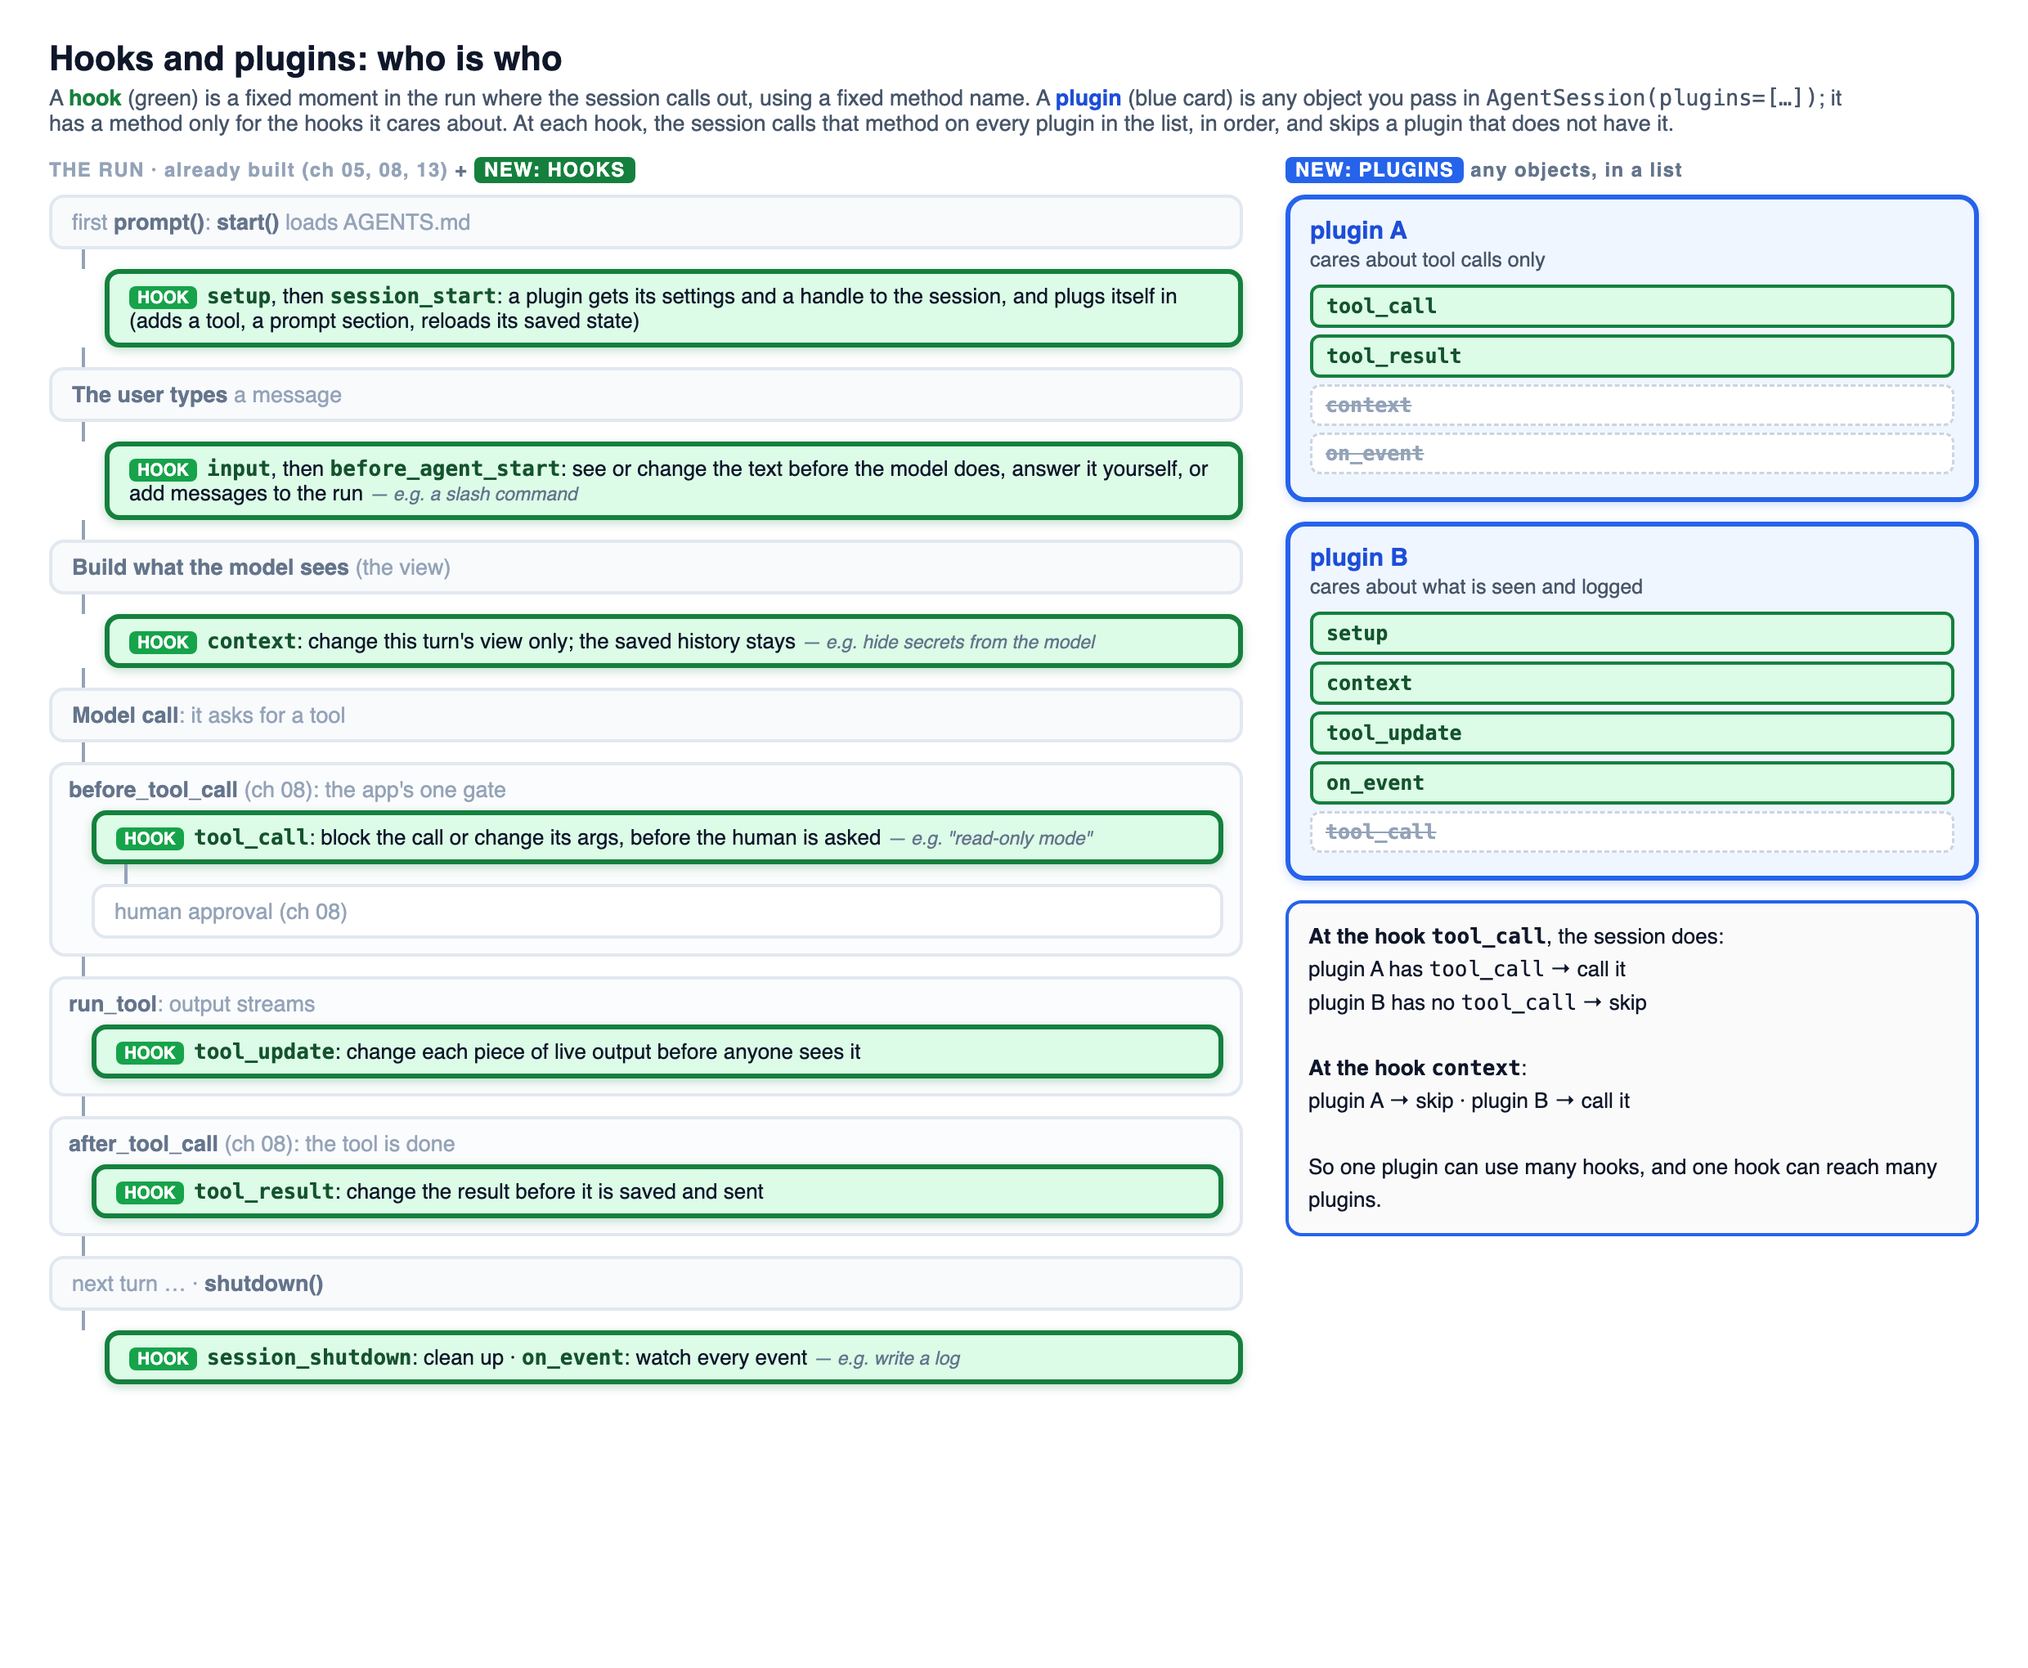
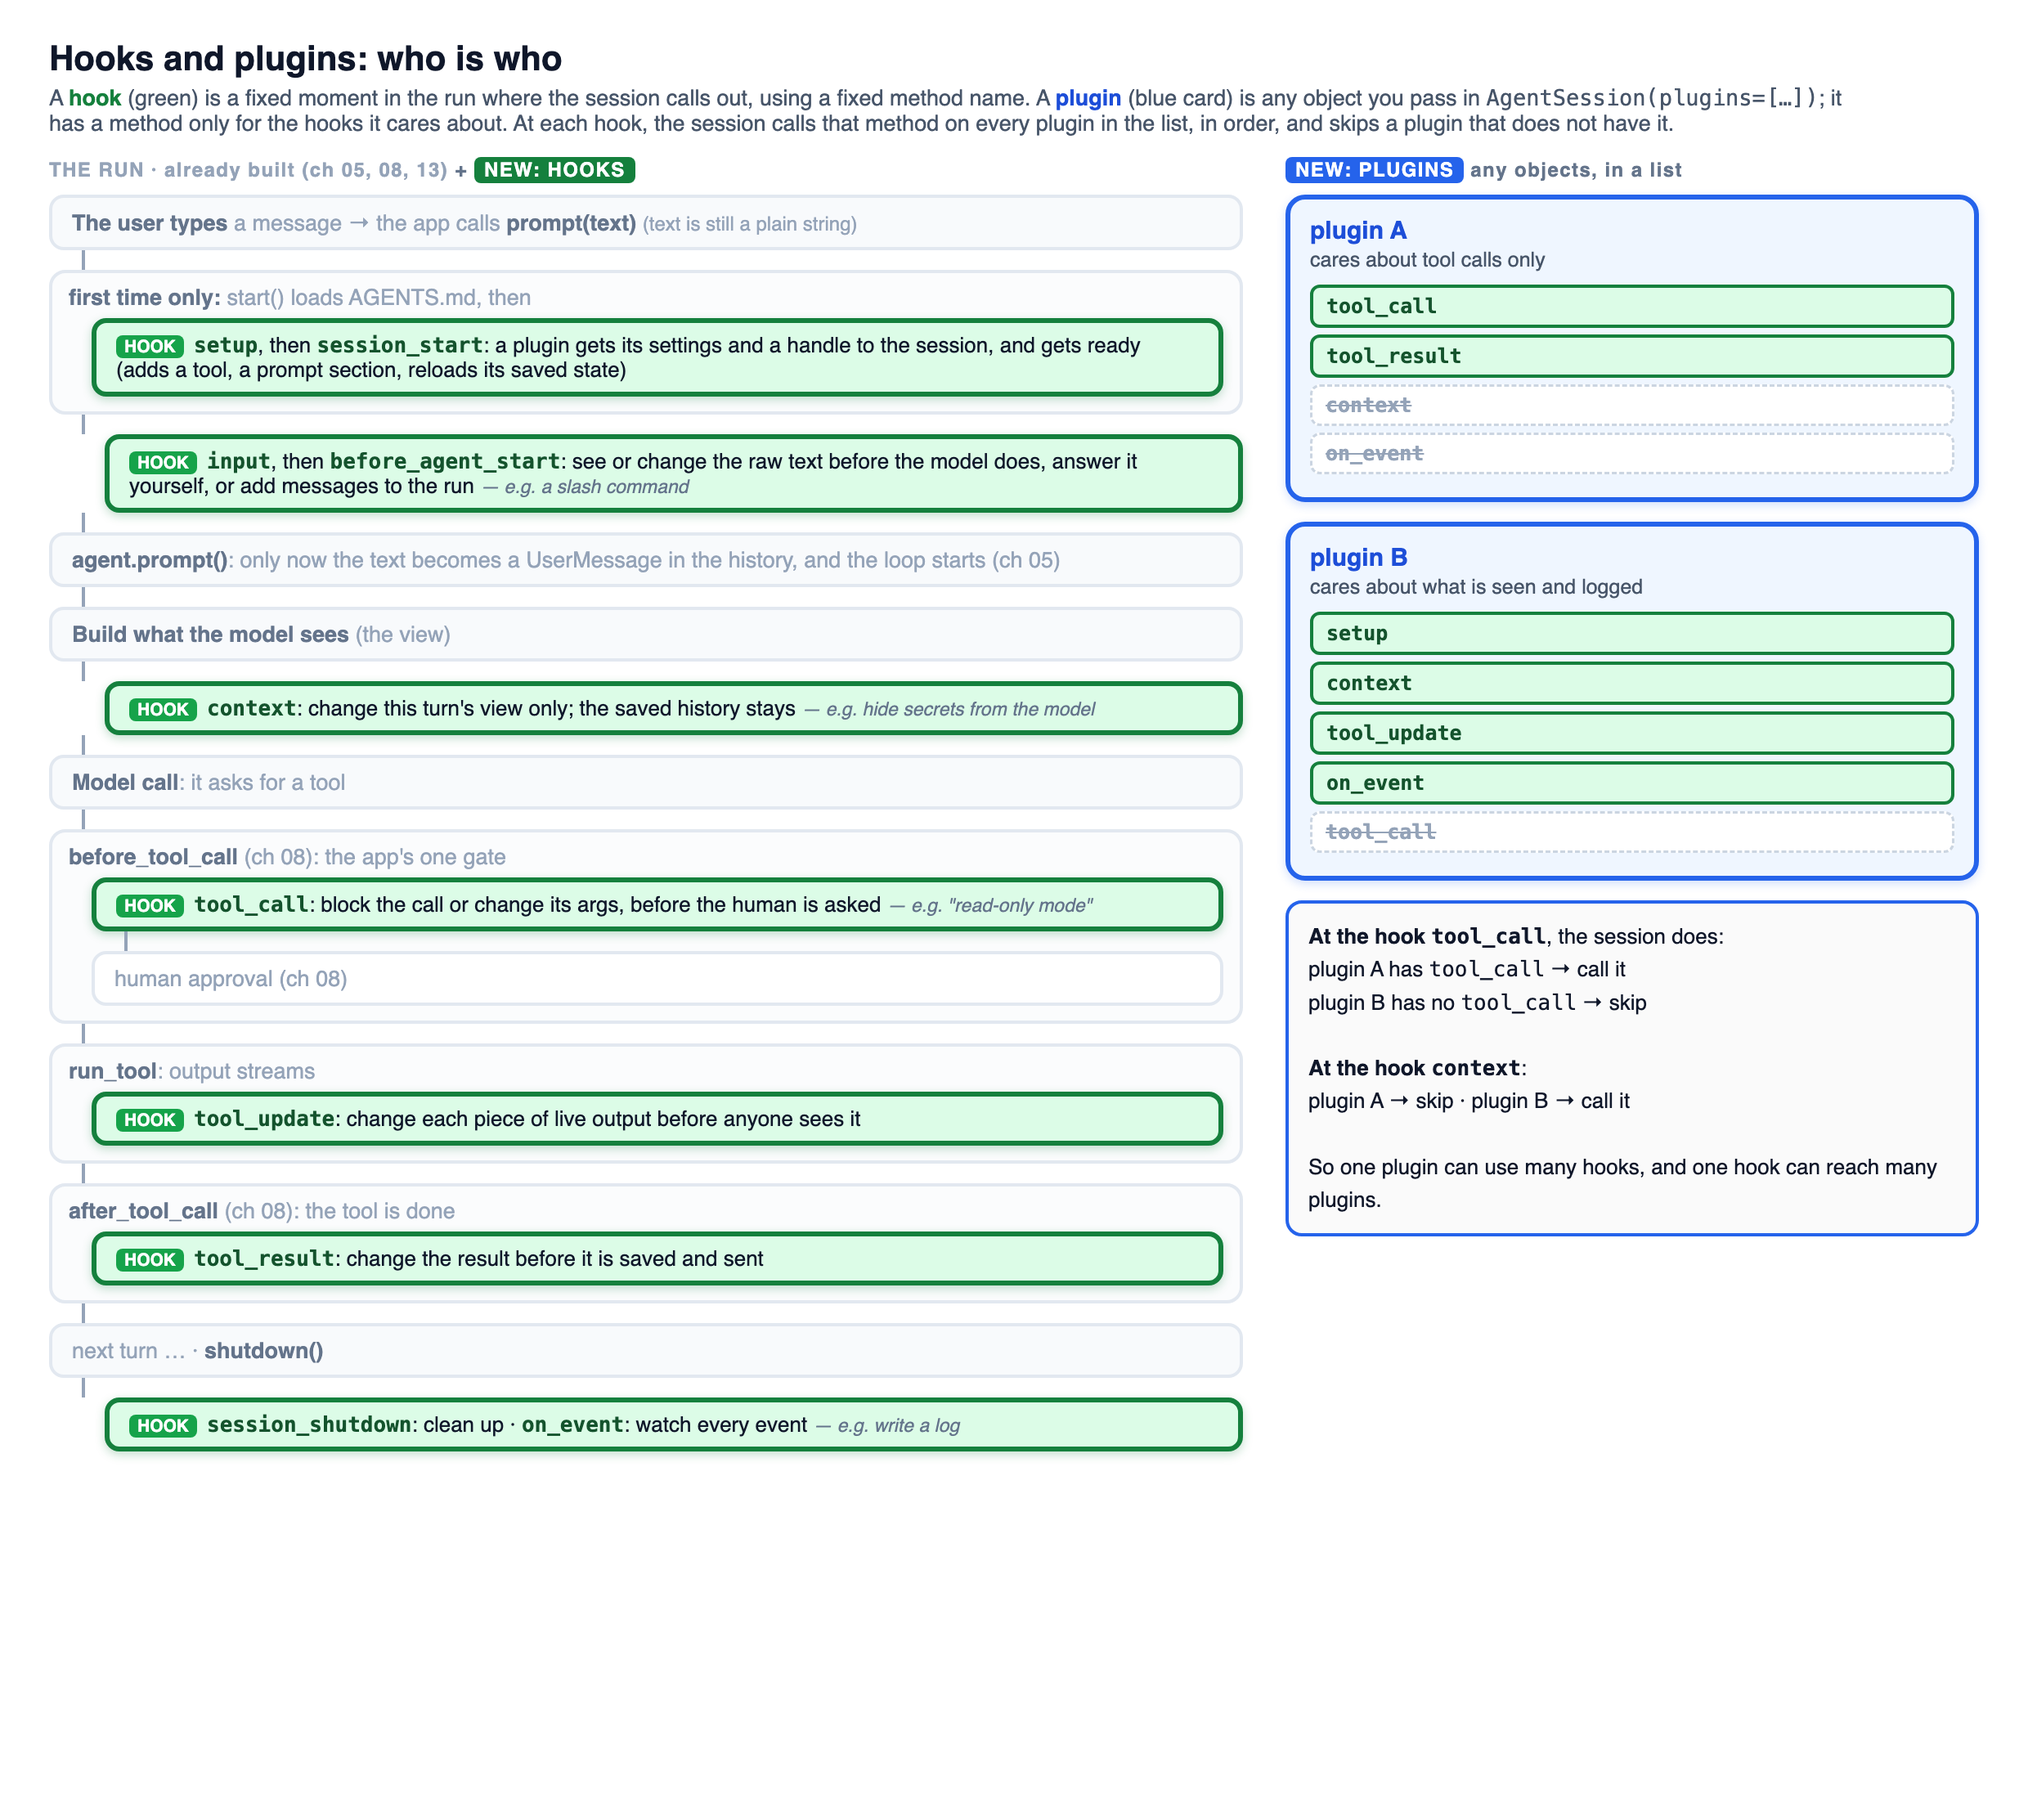
guidebook ch14: user types → prompt(text) → start() first time → input hooks → UserMessage (picture v7 + text)

Changed region(s): [[0.031, 0.0309, 0.9935, 0.8338], [0.9625, 0.4941, 0.9935, 0.525]]

diff --git a/docs/guidebook/img/14-plugin-hooks.html b/docs/guidebook/img/14-plugin-hooks.html
@@ -25,10 +25,12 @@ h1{font-size:21px;margin:0 0 4px}.sub{color:#475569;font-size:13.5px;margin-bott
 <div class="sub">A <b style="color:#15803d">hook</b> (green) is a fixed moment in the run where the session calls out, using a fixed method name. A <b style="color:#1d4ed8">plugin</b> (blue card) is any object you pass in <code>AgentSession(plugins=[…])</code>; it has a method only for the hooks it cares about. At each hook, the session calls that method on every plugin in the list, in order, and skips a plugin that does not have it.</div>
 <div class="grid"><div>
 <div class="colh"><span style="color:#94a3b8">THE RUN · already built (ch 05, 08, 13)</span> + <span style="background:#15803d;color:#fff;border-radius:4px;padding:1px 6px">NEW: HOOKS</span></div>
-<div class="old">first <b>prompt()</b>: <b>start()</b> loads AGENTS.md</div>
-<div class="ar"></div><div class="hook"><span class="k">HOOK</span><span class="hn">setup</span>, then <span class="hn">session_start</span>: a plugin gets its settings and a handle to the session, and plugs itself in (adds a tool, a prompt section, reloads its saved state)</div>
-<div class="ar"></div><div class="old"><b>The user types</b> a message</div>
-<div class="ar"></div><div class="hook"><span class="k">HOOK</span><span class="hn">input</span>, then <span class="hn">before_agent_start</span>: see or change the text before the model does, answer it yourself, or add messages to the run <span class="eg">— e.g. a slash command</span></div>
+<div class="old"><b>The user types</b> a message → the app calls <b>prompt(text)</b> <span style="font-size:12px">(text is still a plain string)</span></div>
+<div class="ar"></div>
+<div class="box"><div class="h"><b>first time only:</b> start() loads AGENTS.md, then</div>
+ <div class="hook"><span class="k">HOOK</span><span class="hn">setup</span>, then <span class="hn">session_start</span>: a plugin gets its settings and a handle to the session, and gets ready (adds a tool, a prompt section, reloads its saved state)</div></div>
+<div class="ar"></div><div class="hook"><span class="k">HOOK</span><span class="hn">input</span>, then <span class="hn">before_agent_start</span>: see or change the raw text before the model does, answer it yourself, or add messages to the run <span class="eg">— e.g. a slash command</span></div>
+<div class="ar"></div><div class="old"><b>agent.prompt()</b>: only now the text becomes a UserMessage in the history, and the loop starts (ch 05)</div>
 <div class="ar"></div><div class="old"><b>Build what the model sees</b> (the view)</div>
 <div class="ar"></div><div class="hook"><span class="k">HOOK</span><span class="hn">context</span>: change this turn's view only; the saved history stays <span class="eg">— e.g. hide secrets from the model</span></div>
 <div class="ar"></div><div class="old"><b>Model call</b>: it asks for a tool</div>

diff --git a/docs/guidebook/14-plugins.md b/docs/guidebook/14-plugins.md
@@ -65,7 +65,7 @@ Plugins add no new path. They hook into the steps of the [13](13-session.md) run
 
 ![Hooks and plugins: where plugins plug into the run you already know](img/14-plugin-hooks.png)
 
-**Once, at the start: `setup`, then `session_start`.** The first `prompt()` calls `start()`, which loads `AGENTS.md`. Then each plugin gets one turn to get ready, before the agent does any work. This turn is `setup`: the plugin gets its own settings and a handle to the session (the PluginAPI, below), so it can also add a tool or a line to the system prompt. Two plugins show the two ways it is used.
+**Once, at the start: `setup`, then `session_start`.** The user types a message, and the app calls `prompt(text)`; `text` is still a plain string. The first time only, `prompt()` begins with `start()`, which loads `AGENTS.md`. Then each plugin gets one turn to get ready, before the agent does any work. This turn is `setup`: the plugin gets its own settings and a handle to the session (the PluginAPI, below), so it can also add a tool or a line to the system prompt. Two plugins show the two ways it is used.
 
 The first way is to **read its settings**. The user has keys in their environment and does not want any of them to reach the model or the log. So in `setup` the key hider (`RedactSecrets`, [18](18-profiles-plugins.md)) builds its list of secret values: the ones named in its settings, plus the values of environment variables whose names contain `KEY`, `TOKEN`, `SECRET` or `PASSWORD`. Nothing is hidden yet; this step only makes the list. Later, `tool_update`, `tool_result` and `context` use the list to replace each value with `[REDACTED]`.
 
@@ -73,7 +73,7 @@ The second way is to **remember where it was**. The user turns plan mode on, clo
 
 `session_start` is a second round. It runs only after every plugin has finished `setup`, so a plugin can count on the others being ready, for example to see a tool another plugin added. Neither example needs it.
 
-**The user's text arrives: `input`, then `before_agent_start`.** This is the only place to act on the raw text before the model sees it. A plugin can rewrite the text, or answer it by itself, and then the model is not called at all; a slash command is the usual case (`{"handled": True}`). `before_agent_start` can then add messages to this run, such as a reminder. No shipped plugin uses these two yet.
+**The user's text arrives: `input`, then `before_agent_start`.** Still inside `prompt()`, before the text becomes a message, `input` gets the raw text. This is the only place to act on it before the model sees it. A plugin can rewrite the text, or answer it by itself, and then the model is not called at all; a slash command is the usual case (`{"handled": True}`). `before_agent_start` can then add messages to this run, such as a reminder. No shipped plugin uses these two yet. Only after these hooks does `agent.prompt()` wrap the text into a `UserMessage`, add it to the history and start the loop ([05](05-agent-loop.md)).
 
 **Before each model call: `context`.** The session has just built the [view](glossary.md#view-llm-view): the messages this turn will send. A plugin can change this view, and only this view; the saved history keeps the original. This is the place to keep something away from the model without rewriting the history. For example, the key hider replaces keys with `[REDACTED]` here, including a key the user pasted earlier, so no key reaches the model provider.
 
